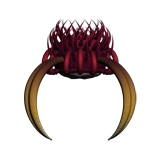
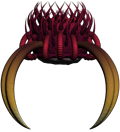
New enemy sprites, animation fix

diff --git a/Source/Ex1/End/Sprites/EnemyGroup.cs b/Source/Ex1/End/Sprites/EnemyGroup.cs
@@ -25,7 +25,7 @@ namespace AlienAttackUniversal
 		private readonly Vector2 EnemyVerticalJump = new Vector2(0, 10);	// number of pixels to jump vertically after hitting edge
 		private const int EnemyStartPosition = 10;	// vertical position of grid
 		private const int ScreenEdge = 20;	// virtual edge of screen to change direction
-		private Vector2 EnemySpacing = new Vector2(4, 4);	// space between sprites
+		private Vector2 EnemySpacing = new Vector2(16, 32);	// space between sprites
 		private readonly Vector2 EnemyVelocity = new Vector2(100 / 1000.0f, 0);	// speed at which grid moves per frame
 
 		public EnemyGroup()

diff --git a/Source/Ex1/End/Sprites/Sprite.cs b/Source/Ex1/End/Sprites/Sprite.cs
@@ -80,14 +80,14 @@ namespace AlienAttackUniversal
 			_time += gameTime.ElapsedGameTime.TotalMilliseconds;
 			if(_time > frameTime)
 			{
-				FrameIndex += _animationDirection;
 				_time -= frameTime;
 
-				if(FrameIndex == 0 || FrameIndex > FrameCount-1)
-				{
-					_animationDirection *= -1;
-					FrameIndex += _animationDirection;
-				}
+				if(FrameIndex == 0)
+					_animationDirection = 1;
+				else if(FrameIndex == FrameCount-1)
+					_animationDirection = -1;
+
+				FrameIndex += _animationDirection;
 			}
 		}
 

diff --git a/Source/Ex1/End/Screens/GameScreen.cs b/Source/Ex1/End/Screens/GameScreen.cs
@@ -201,7 +201,7 @@ namespace AlienAttackUniversal.Screens
 
 			// draw the score
 			Vector2 scoreSize = _font.MeasureString("Score: " + _score);
-			_spriteBatch.DrawString(_font, "Score: " + _score, new Vector2((AlienAttackGame.ScreenWidth - scoreSize.X) / 2, 50), Color.Aqua);
+			_spriteBatch.DrawString(_font, "Score: " + _score, new Vector2((AlienAttackGame.ScreenWidth - scoreSize.X) / 2, 25), Color.Aqua);
 
 			// draw the lives icon
 			_livesIcon.Draw(gameTime, _spriteBatch);

diff --git a/Source/Ex1/End/Sprites/EnemyShot.cs b/Source/Ex1/End/Sprites/EnemyShot.cs
@@ -13,7 +13,7 @@ namespace AlienAttackUniversal
 		public override void Update(GameTime gameTime)
 		{
 			base.Update(gameTime);
-			AnimateReverse(gameTime, 100);
+			AnimateReverse(gameTime, 60);
 		}
 	}
 }

diff --git a/Source/Ex1/End/Sprites/Enemy.cs b/Source/Ex1/End/Sprites/Enemy.cs
@@ -11,7 +11,7 @@ namespace AlienAttackUniversal
 
 		public override void Update(GameTime gameTime)
 		{
-			AnimateLoop(gameTime, 60);
+			AnimateReverse(gameTime, 60);
 		}
 	}
 }
